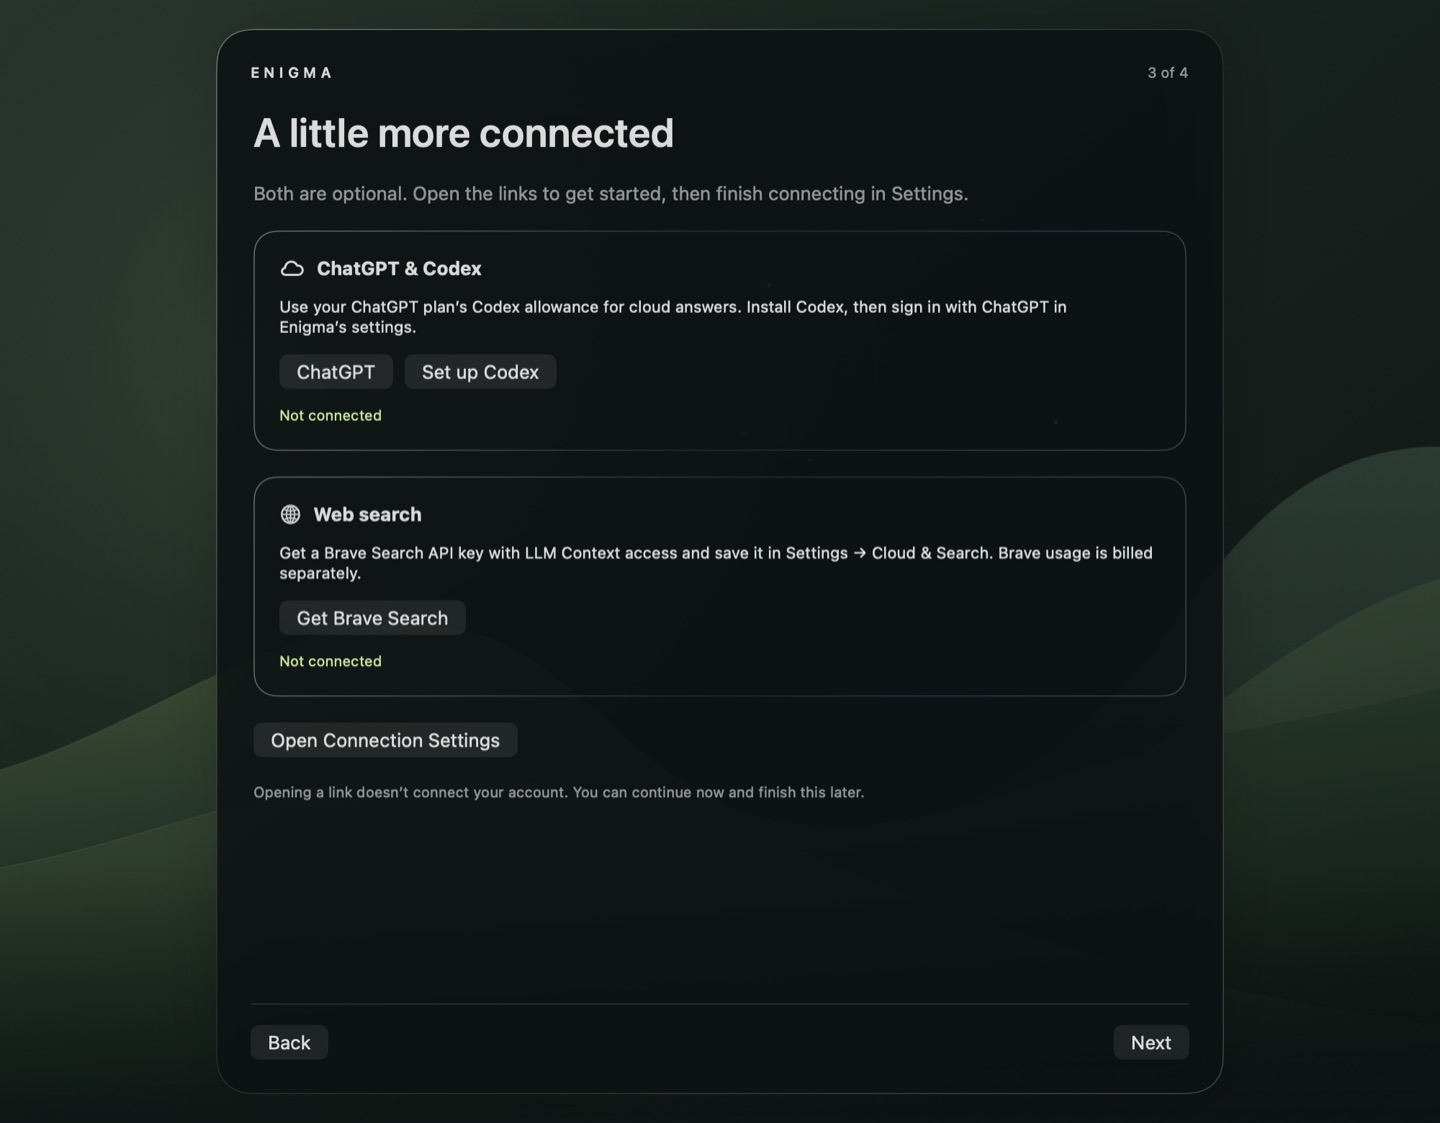
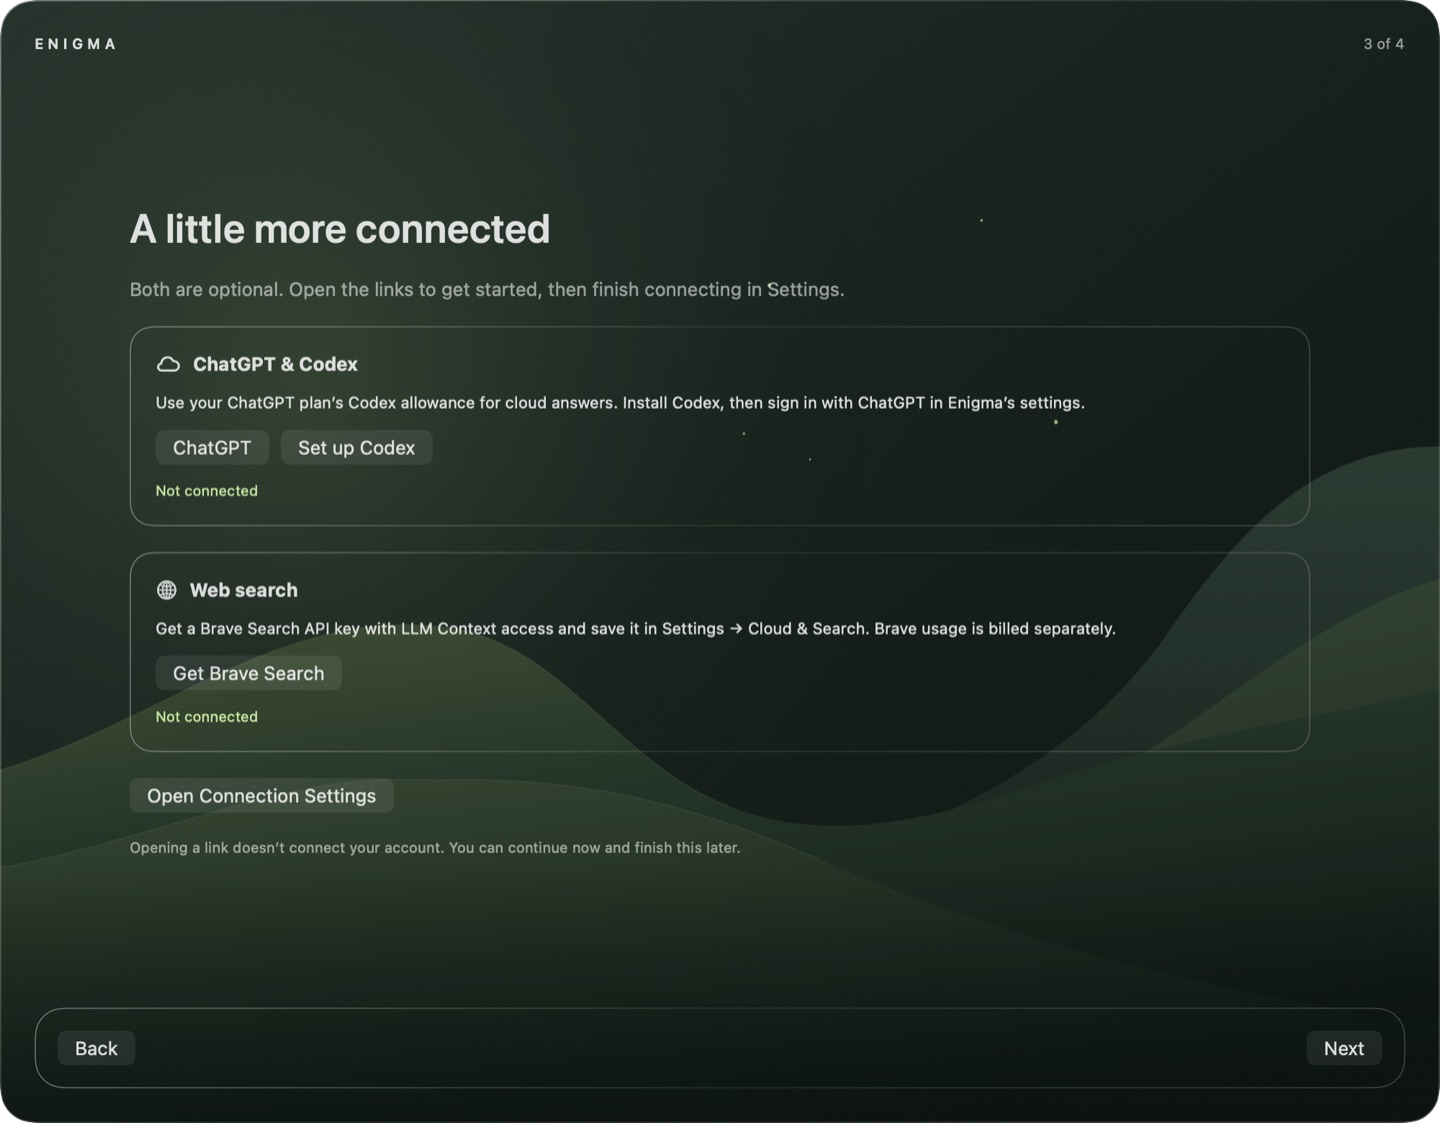
Refine welcome window styling and introduce slash commands

diff --git a/AI-Spotlight/App/WelcomeSetup.swift b/AI-Spotlight/App/WelcomeSetup.swift
@@ -155,7 +155,14 @@ struct WelcomeSetupView: View {
 
   var body: some View {
     GeometryReader { geometry in
-      setupContent(helloHeight: min(230, max(100, geometry.size.height * 0.25)))
+      setupContent(helloHeight: min(260, max(100, geometry.size.height * 0.3)))
+    }
+    .naturePresentation()
+    .clipShape(RoundedRectangle(cornerRadius: 24, style: .continuous))
+    .overlay {
+      RoundedRectangle(cornerRadius: 24, style: .continuous)
+        .strokeBorder(NatureGlass.edge, lineWidth: 0.75)
+        .allowsHitTesting(false)
     }
   }
 
@@ -175,22 +182,23 @@ struct WelcomeSetupView: View {
           case .walkthrough: walkthrough
           }
         }
-        .frame(maxWidth: .infinity, alignment: .leading)
+        .frame(maxWidth: 820, alignment: .leading)
         .padding(2)
+        .frame(maxWidth: .infinity)
       }
+      .defaultScrollAnchor(.center, for: .alignment)
       .scrollIndicators(.visible)
       .id(setup.step)
-      Divider().padding(.vertical, 14)
-      if setup.step == .models { modelControls.padding(.bottom, 12) }
-      footer
+      VStack(spacing: 12) {
+        if setup.step == .models { modelControls }
+        footer
+      }
+      .padding(16)
+      .natureSurface(radius: 20)
+      .padding(.top, 16)
     }
     .padding(24)
-    .frame(maxWidth: 700, maxHeight: .infinity)
-    .background(NatureGlass.canvas.opacity(0.88), in: RoundedRectangle(cornerRadius: 24))
-    .natureSurface()
-    .padding(20)
     .frame(maxWidth: .infinity, maxHeight: .infinity)
-    .naturePresentation()
     .sheet(isPresented: $showConnections) {
       SettingsView(settings: cloud, initialDestination: .cloud)
         .overlay(alignment: .topTrailing) {
@@ -303,7 +311,7 @@ struct WelcomeSetupView: View {
       Image(systemName: "sparkles").font(.system(size: 44)).foregroundStyle(NatureGlass.accent)
       Text("Make yourself at home").font(.system(size: 28, weight: .semibold))
       Text("Would you like an interactive walkthrough?").font(.title3)
-      Text("Five quick stops show you chat history, the message box, files, model choices, and Help. Follow the highlighted controls with Next, or leave the tour anytime.")
+      Text("Six quick stops show you chat history, the message box, slash commands, files, model choices, and Help. Follow the highlighted controls with Next, or leave the tour anytime.")
         .foregroundStyle(.secondary)
       if chat.installedModel == nil && !cloud.isConfigured {
         Label("No model is ready yet. Connect Cloud or install a model in Settings before sending your first message.", systemImage: "info.circle")
@@ -339,11 +347,13 @@ struct WelcomeSetupView: View {
 }
 
 enum WelcomeTourStep: Int, CaseIterable {
-  case history, composer, files, model, help
+  case history, composer, commands, files, model, help
+  var target: Self { self == .commands ? .composer : self }
   var title: String {
     switch self {
     case .history: "Your conversations"
     case .composer: "Start a conversation"
+    case .commands: "Shortcuts start with /"
     case .files: "Bring your files"
     case .model: "Choose how I think"
     case .help: "Help is always here"
@@ -352,7 +362,8 @@ enum WelcomeTourStep: Int, CaseIterable {
   var detail: String {
     switch self {
     case .history: "Use the sidebar button to show or hide your five most recent chats. Double-tap Control to toggle history, and use the pencil for a new chat."
-    case .composer: "Type here and press Return to send. Slash commands such as /search and /screen add tools; /screen asks for capture permission when needed."
+    case .composer: "Type here and press Return to send. Use Shift–Return for a new line. Your draft stays here while you explore the tour."
+    case .commands: "Type / in the message box to browse commands. Use ↑ and ↓, then Tab or Return to choose one before adding your question."
     case .files: "Open the file picker to work with a file or folder. Enigma asks for access to what you choose."
     case .model: "Choose Local, Cloud, or Auto and select a model. Local answers on your Mac; Cloud uses your connected provider; Auto selects a route."
     case .help: "Find keyboard shortcuts here. Settings is nearby for models, connections, and replaying welcome setup. Use Option–Space to hide or summon Enigma."
@@ -382,7 +393,7 @@ struct WelcomeTourOverlay: View {
     GeometryReader { geometry in
       if let step = setup.tour {
         let bounds = CGRect(origin: .zero, size: geometry.size)
-        let target = anchors[step].map { geometry[$0].insetBy(dx: -5, dy: -5).intersection(bounds) }
+        let target = anchors[step.target].map { geometry[$0].insetBy(dx: -5, dy: -5).intersection(bounds) }
         let rect = target.flatMap { $0.isNull ? nil : $0 }
           ?? CGRect(x: geometry.size.width / 2, y: 24, width: 0, height: 0)
         let cardWidth = min(340.0, geometry.size.width - 32)
@@ -397,6 +408,7 @@ struct WelcomeTourOverlay: View {
             Text("\(step.rawValue + 1) of \(WelcomeTourStep.allCases.count)").font(.caption).foregroundStyle(NatureGlass.accent)
             Text(step.title).font(.headline).accessibilityFocused($isHeadingFocused)
             Text(step.detail).font(.subheadline).fixedSize(horizontal: false, vertical: true)
+            if step == .commands { commandPreview }
             HStack {
               Button("End tour") { setup.endTour() }
               Spacer()
@@ -415,6 +427,20 @@ struct WelcomeTourOverlay: View {
         .onExitCommand { setup.endTour() }
       }
     }
+  }
+
+  private var commandPreview: some View {
+    VStack(alignment: .leading, spacing: 8) {
+      ForEach(SlashCommand.allCases) { command in
+        HStack(spacing: 8) {
+          Text(command.token).font(.caption.monospaced().weight(.semibold))
+            .foregroundStyle(NatureGlass.accent).frame(width: 76, alignment: .leading)
+          Text(command.description).font(.caption).foregroundStyle(.secondary)
+            .fixedSize(horizontal: false, vertical: true)
+        }
+      }
+    }
+    .padding(10).background(.white.opacity(0.05), in: RoundedRectangle(cornerRadius: 12))
   }
 }
 

diff --git a/AI-SpotlightTests/LocalModelSelectionTests.swift b/AI-SpotlightTests/LocalModelSelectionTests.swift
@@ -450,7 +450,7 @@ final class LocalModelSelectionTests: XCTestCase {
   }
 
   @MainActor
-  private func render<V: View>(_ root: V, size: NSSize, name: String) throws {
+  private func render<V: View>(_ root: V, size: NSSize, name: String, roundedWindow: Bool = false) throws {
     let view = NSHostingView(rootView: root)
     let window = NSWindow(contentRect: NSRect(origin: .zero, size: size), styleMask: [.borderless], backing: .buffered, defer: false)
     window.contentView = view
@@ -459,6 +459,12 @@ final class LocalModelSelectionTests: XCTestCase {
     window.displayIfNeeded()
     let image = try XCTUnwrap(view.bitmapImageRepForCachingDisplay(in: view.bounds))
     view.cacheDisplay(in: view.bounds, to: image)
+    if roundedWindow {
+      for (x, y) in [(0, 0), (image.pixelsWide - 1, 0), (0, image.pixelsHigh - 1), (image.pixelsWide - 1, image.pixelsHigh - 1)] {
+        XCTAssertLessThan(try XCTUnwrap(image.colorAt(x: x, y: y)).alphaComponent, 0.05, "Window corners must stay transparent")
+      }
+      XCTAssertGreaterThan(try XCTUnwrap(image.colorAt(x: image.pixelsWide / 2, y: image.pixelsHigh / 2)).alphaComponent, 0.95)
+    }
     let png = try XCTUnwrap(image.representation(using: .png, properties: [:]))
     try png.write(to: FileManager.default.temporaryDirectory.appending(path: "\(name).png"))
     let attachment = XCTAttachment(data: png, uniformTypeIdentifier: "public.png")
@@ -813,9 +819,14 @@ extension LocalModelSelectionTests {
     for step in WelcomeSetup.Step.allCases {
       setup.step = step
       for size in [NSSize(width: 640, height: 420), NSSize(width: 1000, height: 780)] {
-        try render(WelcomeSetupView(setup: setup, advisor: advisor, chat: chat, cloud: cloud, search: search, chooseMode: { _ in }), size: size, name: "welcome-\(step)-\(Int(size.width))")
+        try render(WelcomeSetupView(setup: setup, advisor: advisor, chat: chat, cloud: cloud, search: search, chooseMode: { _ in }), size: size, name: "welcome-\(step)-\(Int(size.width))", roundedWindow: true)
       }
     }
+    setup.step = .welcome
+    let shell = AppShellView(glassAppearance: GlassAppearanceSettings(defaults: defaults), cloudSettings: cloud,
+      localChat: chat, modelAdvisor: advisor, searchSettings: search,
+      startPreferences: StartPreferences(defaults: defaults), welcomeSetup: setup)
+    try render(shell, size: NSSize(width: 640, height: 420), name: "welcome-window-rounded", roundedWindow: true)
     setup.finish(takeTour: true)
     for sidebar in [false, true] {
       let preferences = StartPreferences(defaults: defaults)

diff --git a/AI-SpotlightTests/ScreenViewTests.swift b/AI-SpotlightTests/ScreenViewTests.swift
@@ -452,6 +452,7 @@ final class ScreenViewTests: XCTestCase {
     let suite = "ScreenPanel-\(UUID())"
     let defaults = try XCTUnwrap(UserDefaults(suiteName: suite))
     defaults.set(true, forKey: "localModelOnboardingDismissed")
+    defaults.set(ChatMode.auto.rawValue, forKey: StartPreferences.modeKey)
     addTeardownBlock {
       try? FileManager.default.removeItem(at: directory)
       UserDefaults().removePersistentDomain(forName: suite)
@@ -482,7 +483,8 @@ final class ScreenViewTests: XCTestCase {
     let appearance = GlassAppearanceSettings(defaults: defaults)
     let view = NSHostingView(rootView: AppShellView(glassAppearance: appearance, cloudSettings: cloud,
       localChat: chat, screen: screen, modelAdvisor: advisor,
-      searchSettings: WebSearchSettings(credentials: PresenceOnlyCredentials()))
+      searchSettings: WebSearchSettings(credentials: PresenceOnlyCredentials(), defaults: defaults),
+      startPreferences: StartPreferences(defaults: defaults), welcomeSetup: WelcomeSetup(defaults: defaults))
       .transaction { if historyCount == 0 { $0.disablesAnimations = true } })
     let sizes = PanelSizeStore(defaults: defaults)
     sizes.save(NSSize(width: 752, height: 462))
@@ -587,6 +589,7 @@ final class ScreenViewTests: XCTestCase {
     let suite = "RepeatedScreenPanel-\(UUID())"
     let defaults = try XCTUnwrap(UserDefaults(suiteName: suite))
     defaults.set(true, forKey: "localModelOnboardingDismissed")
+    defaults.set(ChatMode.auto.rawValue, forKey: StartPreferences.modeKey)
     addTeardownBlock {
       try? FileManager.default.removeItem(at: directory)
       UserDefaults().removePersistentDomain(forName: suite)
@@ -608,7 +611,8 @@ final class ScreenViewTests: XCTestCase {
     let appearance = GlassAppearanceSettings(defaults: defaults)
     let view = NSHostingView(rootView: AppShellView(glassAppearance: appearance, cloudSettings: cloud,
       localChat: chat, screen: screen, modelAdvisor: advisor,
-      searchSettings: WebSearchSettings(credentials: PanelSearchCredentials())))
+      searchSettings: WebSearchSettings(credentials: PanelSearchCredentials(), defaults: defaults),
+      startPreferences: StartPreferences(defaults: defaults), welcomeSetup: WelcomeSetup(defaults: defaults)))
     let sizes = PanelSizeStore(defaults: defaults)
     sizes.save(NSSize(width: 752, height: 462))
     let controller = SpotlightPanelController(glassAppearance: appearance, sizeStore: sizes, contentView: view)

diff --git a/AI-SpotlightTests/FileModeUITests.swift b/AI-SpotlightTests/FileModeUITests.swift
@@ -66,7 +66,12 @@ final class FileModeUITests: XCTestCase {
     let chat = LocalChatViewModel(engine: FileTestEngine(), files: files, sessionStore: .init(applicationSupportDirectory: root))
     let screen = ScreenComposerCoordinator()
     screen.draft = "Keep my draft"
-    let view = NSHostingView(rootView: AppShellView(glassAppearance: GlassAppearanceSettings(), localChat: chat, screen: screen))
+    let suite = "FileModePanel-\(UUID())"
+    let defaults = try XCTUnwrap(UserDefaults(suiteName: suite))
+    defaults.set(true, forKey: WelcomeSetup.completedKey)
+    addTeardownBlock { UserDefaults(suiteName: suite)?.removePersistentDomain(forName: suite) }
+    let view = NSHostingView(rootView: AppShellView(glassAppearance: GlassAppearanceSettings(), localChat: chat, screen: screen,
+      startPreferences: StartPreferences(defaults: defaults), welcomeSetup: WelcomeSetup(defaults: defaults)))
     let controller = SpotlightPanelController(glassAppearance: GlassAppearanceSettings(), contentView: view)
     controller.show()
     defer { controller.hide() }

diff --git a/docs/Welcome-Setup.md b/docs/Welcome-Setup.md
@@ -1,5 +1,8 @@
 # Welcome setup and walkthrough
 
+Welcome fills the rounded app window with the same continuous forest backdrop
+and a frosted navigation bar as the main interface, without a dark inset card.
+
 First launch introduces Enigma in four steps:
 
 1. **Welcome.** The supplied ASCII Hello characters, column timing, colors, and
@@ -19,16 +22,19 @@ First launch introduces Enigma in four steps:
    page distinguishes a signed-in account, a saved search key, and missing
    connections. Opening a link does not mark a service as connected. Guides
    can replace or supplement these buttons later. Either service may be deferred.
-4. **Walkthrough invitation.** Users can finish immediately or take five short
-   steps pointing at chat history, the composer, files, mode/model selection,
-   and Help. Next advances, Finish setup returns to chat, and End tour or
-   Escape exits early. Popups use the actual SwiftUI control bounds, adapt to
+4. **Walkthrough invitation.** Users can finish immediately or take six short
+   steps pointing at chat history, the composer, slash commands, files,
+   mode/model selection, and Help. Next advances, Finish setup returns to chat, and End tour or
+   Escape exits early. The command stop highlights the message box and shows
+   the actual command catalog, including how to open and navigate its menu.
+   Popups use the actual SwiftUI control bounds, adapt to
    the minimum panel size, and support the sidebar being shown or hidden.
 
 ![Welcome](images/welcome-setup/hello.jpg)
 ![Model choices](images/welcome-setup/models.jpg)
 ![Connections](images/welcome-setup/connections.jpg)
 ![Walkthrough](images/welcome-setup/tour.jpg)
+![Slash-command tour step](images/welcome-setup/commands.jpg)
 
 ## Installation and continuation
 
@@ -64,7 +70,7 @@ To test in the development app:
    action when the sidebar is visible.
 3. Walk through the local opt-out path to test without downloading anything.
    On the connections page, open the setup links or Settings, then continue.
-4. Choose the walkthrough and use Next through all five stops. Repeat and try
+4. Choose the walkthrough and use Next through all six stops. Repeat and try
    End tour. Resize the panel down to 640 × 420; scroll the model and connection
    pages to reach additional content.
 5. Replay again to exercise a real model install or select an already-installed
@@ -91,8 +97,10 @@ These checks do not download multi-gigabyte models, purchase subscriptions, sign
 in to real accounts, or send paid search/chat requests. The checked-in screenshots
 use deterministic hardware and empty-account fixtures.
 
-Local verification for this feature: build and static analysis passed. The full
-suite ran 486 tests with 10 optional skips and no failures; after final viewport
-and focus refinements, all 55 affected model-selection and screen-view tests
-passed again. Live account authentication and multi-gigabyte downloads remain
-manual checks.
+Local verification after the full-window and slash-command refinements: build
+and static analysis passed. The full suite ran 486 tests with 10 optional skips
+and no failures. Rendering checks verify transparent outer corners on every
+welcome page and the integrated app window, plus all six tour steps at both
+window sizes. Native chat fixtures use isolated startup preferences so saved
+user settings cannot change their routing. Live account authentication and
+multi-gigabyte downloads remain manual checks.
